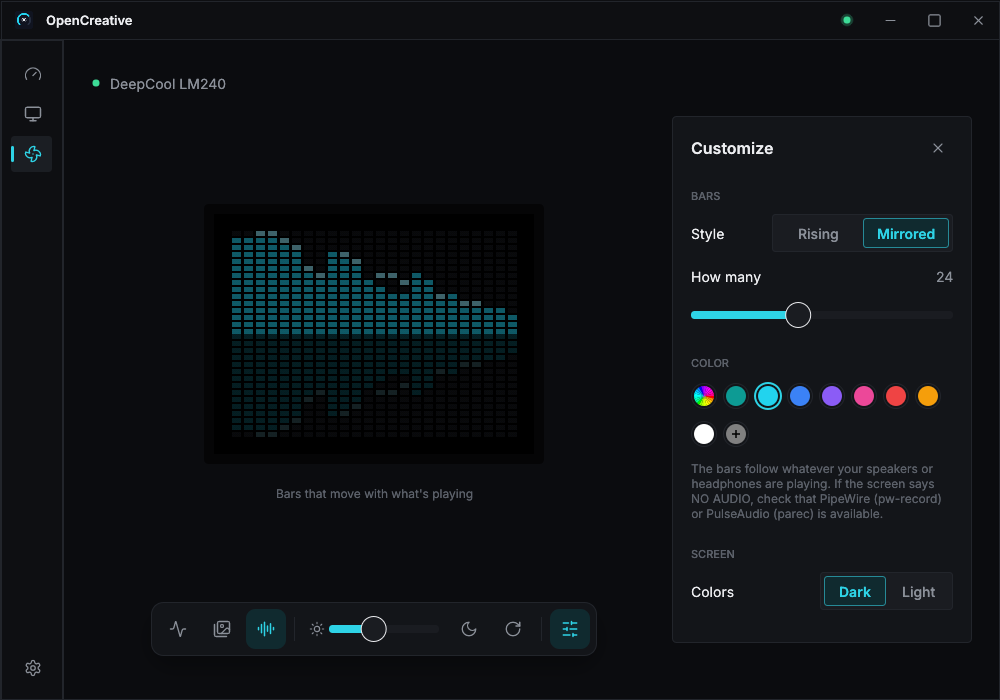
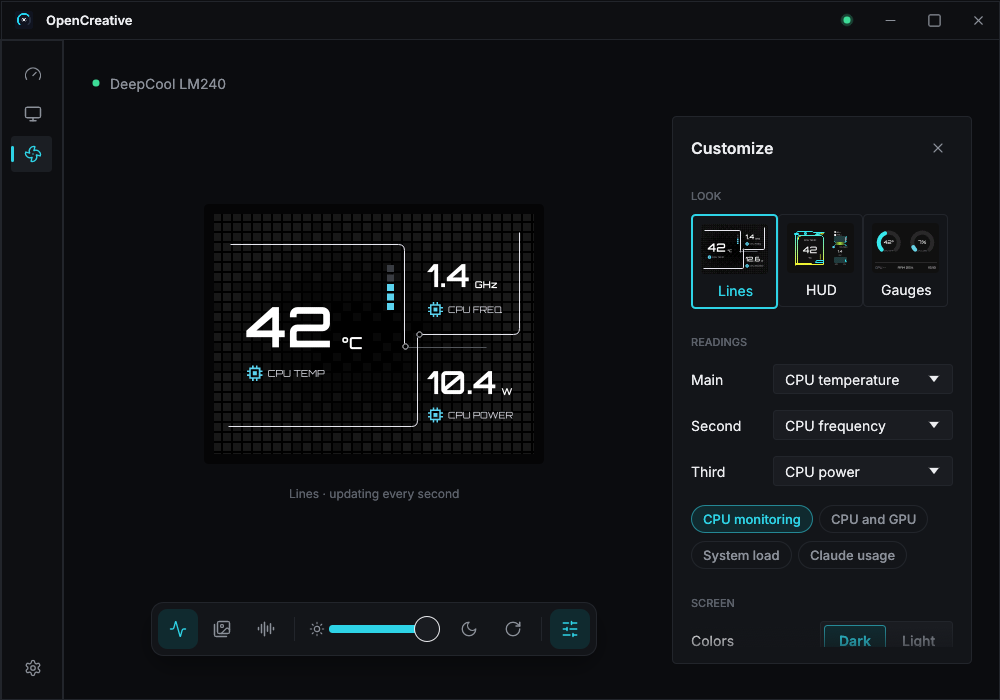
docs: shorter README, screenshots on Live data
Cut the README to the essentials: a short install, one-line features,
the screenshots, supported coolers and a short help list. The command
line and build sections stay folded below. Screenshots retaken with the
cooler on Live data instead of Music.

diff --git a/README.md b/README.md
@@ -11,98 +11,56 @@ alternative to DeepCool's Windows-only DeepCreative app.
 > by DeepCool. "DeepCool" and "DeepCreative" are trademarks of their owners.
 
 <p>
-  <img src="docs/screenshots/device.png" alt="The cooler screen editor: the live preview on a stage, a floating toolbar, and the Customize panel for music bars" width="100%">
-</p>
-<p>
-  <img src="docs/screenshots/devices.png" alt="Devices page: the cooler pictured with its live screen" width="49%">
-  <img src="docs/screenshots/dashboard.png" alt="Dashboard: CPU, GPU, memory, storage and network" width="49%">
+  <img src="docs/screenshots/device.png" alt="The cooler screen editor: the live preview, a floating toolbar and the Customize panel" width="100%">
 </p>
 
 ## Install
 
-1. Download the file for your system from the
-   [latest release](https://github.com/siam-parvez/opencreative/releases/latest):
+Download the file for your system from the
+[latest release](https://github.com/siam-parvez/opencreative/releases/latest)
+and open it in your software center, or:
 
-   | Your system | Download |
-   |---|---|
-   | Ubuntu, Debian, Mint, Pop!_OS | `opencreative_…_amd64.deb` |
-   | Fedora, openSUSE | `opencreative-…x86_64.rpm` |
-   | Anything else | `OpenCreative-…-x86_64.AppImage` |
+```sh
+sudo apt install ./opencreative_*_amd64.deb     # Ubuntu, Debian, Mint, Pop!_OS
+sudo dnf install ./opencreative-*.x86_64.rpm    # Fedora, openSUSE
+```
 
-   On an ARM computer, pick the `arm64` / `aarch64` file instead.
+Anything else: the `.AppImage` (make it executable, then open it). ARM: the
+`arm64` / `aarch64` files.
 
-2. Open it in your software center and click **Install**, or in a terminal:
+Open **OpenCreative** from your app menu. The cooler is found automatically
+and its screen keeps running in the background, after restarts too. To
+update, install the new file the same way.
 
-   ```sh
-   sudo apt install ./opencreative_*_amd64.deb     # Ubuntu, Debian
-   sudo dnf install ./opencreative-*.x86_64.rpm    # Fedora
-   ```
+## Features
 
-3. Open **OpenCreative** from your app menu.
+- **Live data**: CPU, GPU and RAM readings in three looks (Lines, HUD, Gauges)
+- **Pictures & video**: images, GIFs, videos and YouTube playlists, or a color
+- **Music**: bars that move with what's playing
+- **Top-bar menu**: switch modes, looks, brightness, colors and rotation
+- **Dashboard**: your computer's CPU, GPU, memory, storage and network
+- Dark and light themes, a choice of fonts, Zen mode (a calm clock)
 
-That's it. The cooler is found automatically, and its screen keeps running in
-the background from then on, with the window closed and after restarts.
-
-**AppImage:** make it executable (right-click → Properties → allow running as
-a program) and open it. In the app's **Settings**, turn on **Allow access to
-the cooler** (asks for your password once) and **Show in the app menu**.
-
-**Updating:** install the new file the same way. OpenCreative restarts on the
-new version by itself and keeps your settings.
-
-## What it does
-
-- **Live data**: live readings on the cooler, one large and two small, of
-  your choice (CPU or GPU temperature, load, frequency, power, RAM), in three
-  looks: **Lines**, **HUD** (with live charts) and **Gauges**. One-click
-  presets cover the usual combinations.
-- **Pictures & video**: playlists of **Images**, **GIFs**, **Videos** or
-  **YouTube** links, each kind on its own tab, or a plain **Color**. Drop files
-  on the window or use Browse. Drag the preview to move a picture and scroll to
-  zoom. Select several items with Ctrl or Shift and press Delete.
-- **Music**: bars that move with whatever your speakers or headphones are
-  playing, rising or mirrored, in one color or a rainbow by pitch.
-- **Display**: brightness, dark or light screen colors, rotation for any pump
-  orientation, and Zen mode (a calm, dim clock in place of your layout).
-- **The editor**: the cooler's screen on a stage of its own, with one toolbar
-  for the mode, brightness, Zen and rotation, and a **Customize** panel for
-  the details that slides away when you don't need it. The preview shows
-  exactly what's on the cooler, frame for frame, dimmed to its brightness.
-- **Top-bar menu**: switch between Live data, Pictures & video and Music,
-  pick a look, and set brightness, screen colors, rotation or Zen mode
-  without opening the window. Each mode comes back as you last left it.
-- **Your look**: dark or light theme, a choice of app fonts (Inter, Geist,
-  Manrope, IBM Plex Sans), and a sidebar that folds to icons on smaller
-  windows.
-- **Dashboard**: this computer's CPU, GPU, memory, storage and network at a
-  glance, with a two-minute history.
-
+<p>
+  <img src="docs/screenshots/devices.png" alt="Devices page: the cooler pictured with its live screen" width="49%">
+  <img src="docs/screenshots/dashboard.png" alt="Dashboard: CPU, GPU, memory, storage and network" width="49%">
+</p>
 <p>
   <img src="docs/screenshots/device-light.png" alt="The editor in the light theme" width="55%">
   <img src="docs/screenshots/device-compact.png" alt="A smaller window: the sidebar folds to icons" width="44%">
 </p>
-
 <p>
-  <img src="docs/screenshots/skin-lines.png" alt="Lines skin: three readings framed by thin lines over a tile grid" width="32%">
-  <img src="docs/screenshots/skin-hud.png" alt="HUD skin: neon frames with network and usage charts" width="32%">
-  <img src="docs/screenshots/skin-gauges.png" alt="Gauges skin: CPU temperature and load gauges" width="32%">
+  <img src="docs/screenshots/skin-lines.png" alt="Lines skin" width="32%">
+  <img src="docs/screenshots/skin-hud.png" alt="HUD skin" width="32%">
+  <img src="docs/screenshots/skin-gauges.png" alt="Gauges skin" width="32%">
 </p>
 
-### Optional extras
-
-- **YouTube** needs a small helper, yt-dlp. OpenCreative downloads it for you
-  the first time you add a YouTube link. Videos play through ffmpeg, which the
-  packages install for you.
-- **CPU power readings** are off by default: they need the CPU's energy
-  counters, which are a known security side channel
-  ([CVE-2020-8694](https://nvd.nist.gov/vuln/detail/CVE-2020-8694)). Turn on
-  **Settings → CPU and PC power** if you want them. "PC power" only shows a
-  number on computers that can measure more than the CPU.
-- **Claude usage**: if you use [Claude Code](https://claude.com/claude-code),
-  **Settings → Integrations → Claude usage** shows your 5-hour and weekly
-  limits on the dashboard and as cooler readings. It reuses the login Claude
-  Code already keeps on this computer, sends it only to Anthropic's usage
-  endpoint, and never stores it. Not affiliated with Anthropic.
+**Optional:** YouTube downloads its helper (yt-dlp) the first time you add a
+link. CPU power readings are off by default
+([why](https://nvd.nist.gov/vuln/detail/CVE-2020-8694)); turn them on in
+**Settings**. [Claude Code](https://claude.com/claude-code) users can show
+their usage limits (**Settings → Integrations**; not affiliated with
+Anthropic).
 
 ## Supported coolers
 
@@ -110,27 +68,17 @@ new version by itself and keeps your settings.
 |---|---|---|
 | DeepCool LM240 / LM360 | `3633:0026` | 320 × 240 |
 
-Have another DeepCool cooler with a screen?
-[Adding a device](docs/adding-a-device.md) explains what we need to support it.
+Have another one? [Request support](https://github.com/siam-parvez/opencreative/issues/new?template=new-device.yml)
+or see [adding a device](docs/adding-a-device.md).
 
-## Troubleshooting
+## Help
 
-- **"No cooler connected"**: unplug the cooler's USB cable and plug it back
-  in. If it still isn't found, use **Settings → Allow access to the cooler**.
-- **YouTube says it needs yt-dlp**: click **Download yt-dlp** on the YouTube
-  tab.
-- **The music bars say NO AUDIO**: OpenCreative listens through PipeWire or
-  PulseAudio; check that sound is playing through your normal output.
-- **Anything else**:
-  [open an issue](https://github.com/siam-parvez/opencreative/issues) with
-  what you see and the output of `opencreative status`.
+- **No cooler found**: replug its USB cable, or use **Settings → Allow access to the cooler**.
+- **Music bars say NO AUDIO**: check that sound plays through PipeWire or PulseAudio.
+- **Anything else**: [open an issue](https://github.com/siam-parvez/opencreative/issues).
 
-## Uninstall
-
-- From a `.deb` or `.rpm`: remove **OpenCreative** in your software center, or
-  run `sudo apt remove opencreative` / `sudo dnf remove opencreative`.
-- AppImage: right-click OpenCreative in the app menu → **Uninstall
-  OpenCreative**, or use **Settings → Uninstall** in the app.
+**Uninstall:** remove OpenCreative in your software center
+(`sudo apt remove opencreative`), or for the AppImage use **Settings → Uninstall**.
 
 <details>
 <summary><b>Command line</b></summary>
